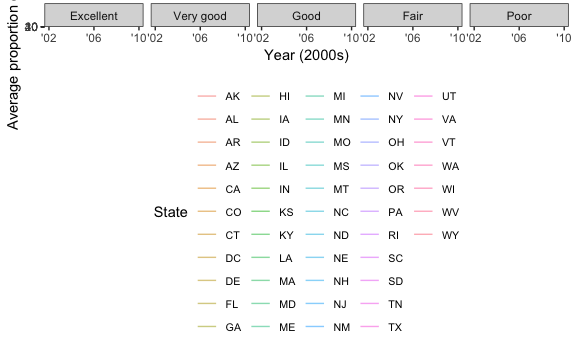
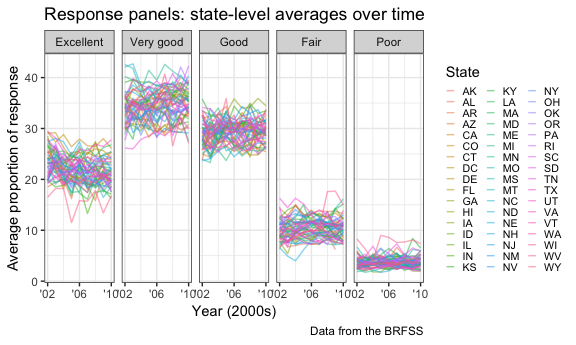
legend theme update -- problem 1

diff --git a/p8105_hw3_eas2297.md b/p8105_hw3_eas2297.md
@@ -100,7 +100,7 @@ brfss_clean %>%
     caption = "Data from the BRFSS",
     color = "State"
   ) + 
-  theme(legend.text=element_text(size = 8))
+  theme(legend.position = "right", legend.text = element_text(size = 8), legend.key.size = unit(0.5,"line"))
 ```
 
 <img src="p8105_hw3_eas2297_files/figure-gfm/unnamed-chunk-4-1.png" width="90%" />
@@ -153,7 +153,7 @@ brfss_clean %>%
     caption = "Data from the BRFSS",
     color = "State"
   ) +
-  theme(legend.text=element_text(size = 8))
+   theme(legend.position = "right", legend.text = element_text(size = 8), legend.key.size = unit(0.5,"line"))
 ```
 
 <img src="p8105_hw3_eas2297_files/figure-gfm/unnamed-chunk-6-1.png" width="90%" />
